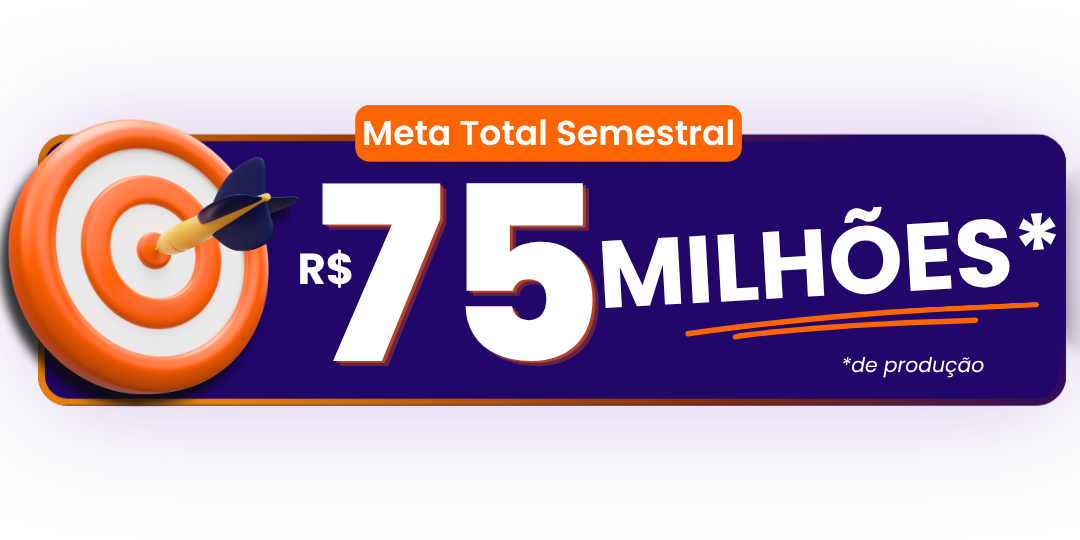
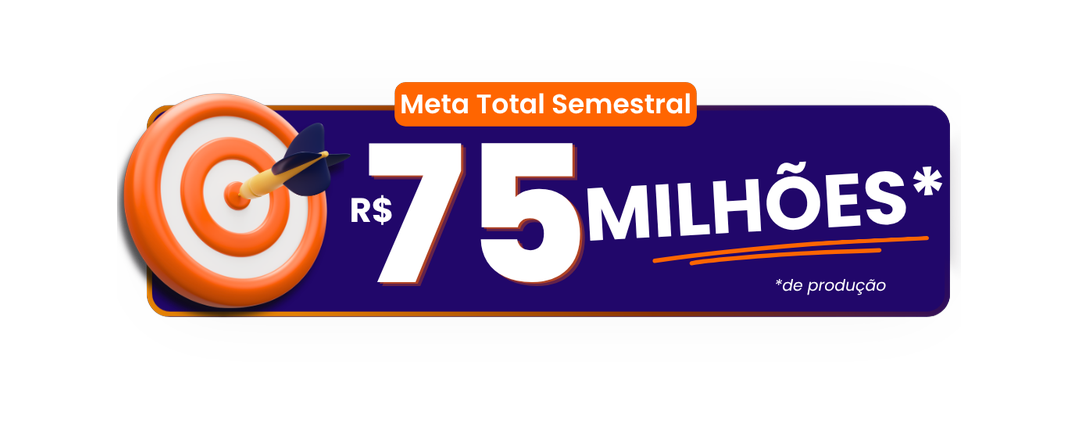
feat(campanhas): cabecalho com as duas artes lado a lado, em tamanho igual
O cabecalho passa a render TODAS as artes `hero*` numa faixa de colunas
iguais — hoje o titulo da campanha e a arte do premio. A arte do premio
saiu do slot lateral (ao lado dos rankings) e subiu para o cabecalho.

Para sairem do mesmo tamanho as pecas precisam compartilhar a proporcao:
`width="stretch"` iguala a LARGURA, nao a altura, entao duas artes de
proporcoes diferentes na mesma linha renderiam com alturas diferentes (a
mais quadrada 36% mais alta). As quatro foram normalizadas em disco numa
moldura transparente de 1078x422 — a proporcao da arte do premio, tomada
como padrao — com o conteudo escalado para caber e centralizado:

  2.png -> hero-1.png    conteudo  791x422   titulo da campanha
  1.png -> hero-2.png    conteudo 1078x422   premio (Buzios) — a referencia
  3.png -> rodape-1.png  conteudo  844x422   meta R$ 75 milhoes
  4.png -> rodape-2.png  conteudo 1038x422   sub-metas por familia

Conteudo com a MESMA altura (422px) nas quatro; o que varia e a largura,
conforme a proporcao original de cada peca. Conferido em previa composta
sobre fundo claro e escuro: a transparencia se comporta nos dois temas.

O slot `lateral*` continua suportado, agora sem uso. README de assets
ganhou a receita de normalizacao para pecas futuras.

Changed region(s): [[0.0, 0.1848, 1.0, 0.8009]]

diff --git a/src/dashboard/pages/campanhas.py b/src/dashboard/pages/campanhas.py
@@ -21,13 +21,20 @@ prefixo — **sem codigo**: soltar o arquivo na pasta basta.
 
 | Prefixo do arquivo | Onde aparece |
 |---|---|
-| ``hero.*``      | banner de largura total, abrindo a pagina |
+| ``hero*.*``     | faixa do cabecalho, abrindo a pagina |
+| ``rodape*.*``   | faixa no fim da pagina |
 | ``lateral*.*``  | coluna estreita a direita dos rankings |
-| ``rodape*.*``   | faixa de figuras no fim da pagina |
 
-Varios ``lateral``/``rodape`` convivem (``rodape-1.png``,
-``rodape-2.png``, ...) e entram em ordem alfabetica. Formato: png, jpg,
-jpeg, webp, gif ou svg. Nada configurado = nada renderizado, sem erro.
+Varios arquivos do mesmo prefixo convivem (``hero-1.png``,
+``hero-2.png``, ...) e entram **em colunas de largura igual**, na ordem
+alfabetica do nome. Formato: png, jpg, jpeg, webp, gif ou svg. Nada
+configurado = nada renderizado, sem erro.
+
+**As pecas precisam compartilhar a proporcao** para sairem do mesmo
+tamanho na mesma faixa: ``width="stretch"`` iguala a largura, nao a
+altura. As da Semestral 2026-H2 estao normalizadas em disco numa
+moldura transparente de 1078x422 (a da arte do premio), com o conteudo
+centralizado.
 """
 
 from datetime import date
@@ -94,10 +101,30 @@ def assets_da_campanha(slug: str, prefixo: str) -> List[Path]:
         return []
 
 
+def _render_faixa(figuras: List[Path]) -> None:
+    """Renderiza as figuras lado a lado, em colunas de largura igual.
+
+    Colunas iguais + molduras de mesma proporcao = figuras do mesmo
+    tamanho na tela. As pecas sao normalizadas em disco para uma
+    moldura transparente comum (a da arte do premio, 1078x422), com o
+    conteudo centralizado: sem isso, duas artes de proporcoes
+    diferentes na mesma linha renderiam com alturas diferentes, porque
+    ``width="stretch"`` iguala a largura, nao a altura.
+    """
+    for col, fig in zip(st.columns(len(figuras)), figuras):
+        with col:
+            st.image(str(fig), width="stretch")
+
+
 def _render_hero(camp: Campanha) -> None:
-    hero = assets_da_campanha(camp.slug, "hero")
-    if hero:
-        st.image(str(hero[0]), width="stretch")
+    """Cabecalho: todas as artes ``hero*`` numa faixa so.
+
+    Varias convivem (``hero-1``, ``hero-2``, ...) e entram em ordem
+    alfabetica — hoje o titulo da campanha e a arte do premio.
+    """
+    figuras = assets_da_campanha(camp.slug, "hero")
+    if figuras:
+        _render_faixa(figuras)
 
 
 def _render_rodape(camp: Campanha) -> None:
@@ -105,9 +132,7 @@ def _render_rodape(camp: Campanha) -> None:
     if not figuras:
         return
     st.divider()
-    for col, fig in zip(st.columns(len(figuras)), figuras):
-        with col:
-            st.image(str(fig), width="stretch")
+    _render_faixa(figuras)
 
 
 # ══════════════════════════════════════════════════════

diff --git a/assets/campanhas/README.md b/assets/campanhas/README.md
@@ -8,21 +8,51 @@ configurar no código. Soltar o arquivo na pasta basta.
 
 | Prefixo | Onde aparece na página |
 |---|---|
-| `hero.*` | banner de largura total, abrindo a página |
+| `hero*.*` | faixa do cabeçalho, abrindo a página |
+| `rodape*.*` | faixa no fim da página |
 | `lateral*.*` | coluna estreita à direita dos rankings |
-| `rodape*.*` | faixa de figuras no fim da página |
 
-Vários `lateral`/`rodape` convivem e entram em **ordem alfabética** —
-use `rodape-1.png`, `rodape-2.png`, … para controlar a ordem.
+Vários arquivos do mesmo prefixo convivem e entram **em colunas de
+largura igual**, na ordem alfabética do nome — use `hero-1.png`,
+`hero-2.png`, … para controlar a ordem.
 
 Formatos aceitos: `.png`, `.jpg`, `.jpeg`, `.webp`, `.gif`, `.svg`.
+Pasta ausente ou vazia = nenhuma arte renderizada, sem erro.
 
-Só o primeiro `hero.*` é usado. Pasta ausente ou vazia = nenhuma arte
-renderizada, sem erro.
+## Proporção: o que realmente importa
 
-## Dimensões sugeridas
+`width="stretch"` iguala a **largura**, não a altura. Duas peças de
+proporções diferentes na mesma faixa saem com alturas diferentes — a
+mais "quadrada" fica visivelmente maior.
 
-- **hero**: 1600×400 px (proporção ~4:1). A página é wide; o Streamlit
-  reescala para a largura do container.
-- **lateral**: 400 px de largura; altura livre.
-- **rodape**: até 4 figuras lado a lado; ~400×300 px cada.
+Por isso as peças de uma mesma faixa devem **compartilhar a
+proporção**. A convenção adotada na Semestral 2026-H2: moldura
+transparente de **1078×422** (≈2,55:1, a proporção da arte do prêmio),
+com o conteúdo escalado para caber e centralizado.
+
+Para normalizar uma peça nova nesse padrão:
+
+```python
+from PIL import Image
+
+CANVAS = (1078, 422)
+im = Image.open("nova.png").convert("RGBA")
+corte = im.crop(im.getchannel("A").getbbox())      # tira o vão transparente
+escala = min(CANVAS[0] / corte.width, CANVAS[1] / corte.height)
+novo = (round(corte.width * escala), round(corte.height * escala))
+corte = corte.resize(novo, Image.LANCZOS)
+
+moldura = Image.new("RGBA", CANVAS, (0, 0, 0, 0))
+moldura.paste(corte, ((CANVAS[0] - novo[0]) // 2,
+                      (CANVAS[1] - novo[1]) // 2), corte)
+moldura.save("hero-3.png", optimize=True)
+```
+
+O recorte pelo bbox do alpha é importante: as peças originais são
+1080×1350 (formato de social) com o conteúdo ocupando só 31–42% da
+altura. Sem cortar, cada figura carregaria ~60% de vão transparente.
+
+## Fundo transparente
+
+Mantenha PNG com alpha. O dashboard tem tema claro e escuro; peça com
+fundo branco chapado fica com uma caixa branca no tema escuro.
